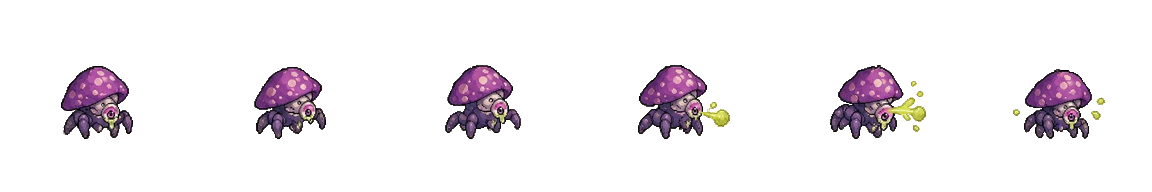
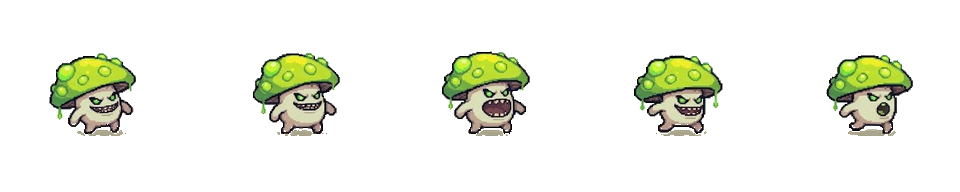
v164: vẽ lại Viên Nấm Độc
Claude-Session: https://claude.ai/code/session_014dDJFgpBf2uephg2yojD2h

Changed region(s): [[0.2188, 0.25, 0.8125, 0.7188], [0.8438, 0.2812, 0.9688, 0.7188], [0.0312, 0.2812, 0.1562, 0.7188]]

diff --git a/index.html b/index.html
@@ -541,7 +541,7 @@ table.cmp .ok{color:#2f7a2a}table.cmp .no{color:#b22a1a}table.cmp tr.bad td{back
 <script>
 "use strict";
 // Phiên bản game: tăng mỗi lần phát hành để người chơi biết đang chạy bản nào
-const GAME_VER='163',GAME_DATE='27/10/2026';
+const GAME_VER='164',GAME_DATE='27/10/2026';
 // ================= cấu hình chung =================
 const T=64;
 const $=id=>document.getElementById(id);
